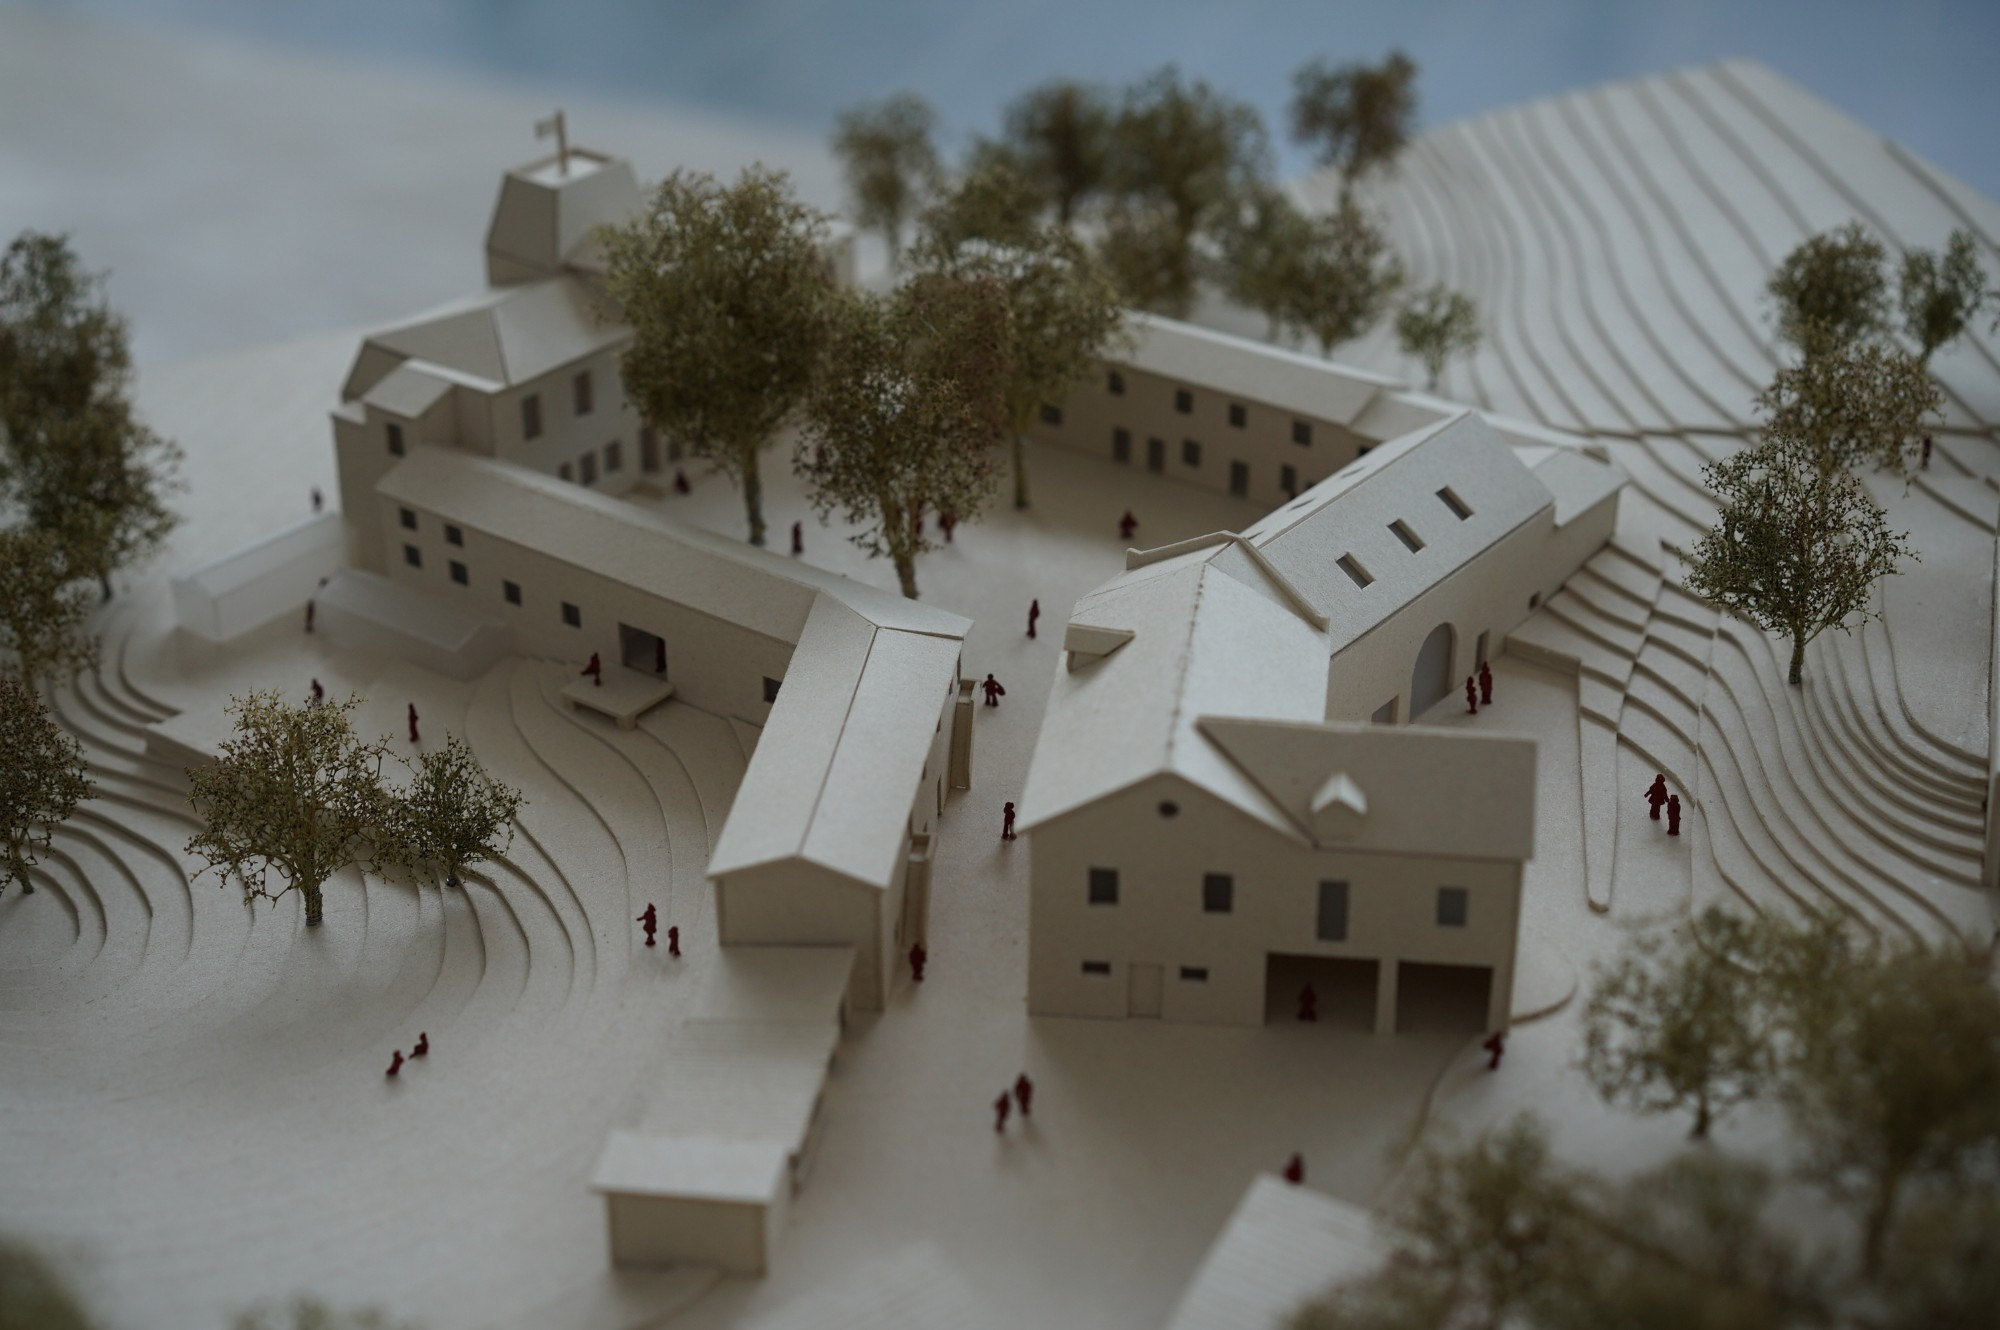
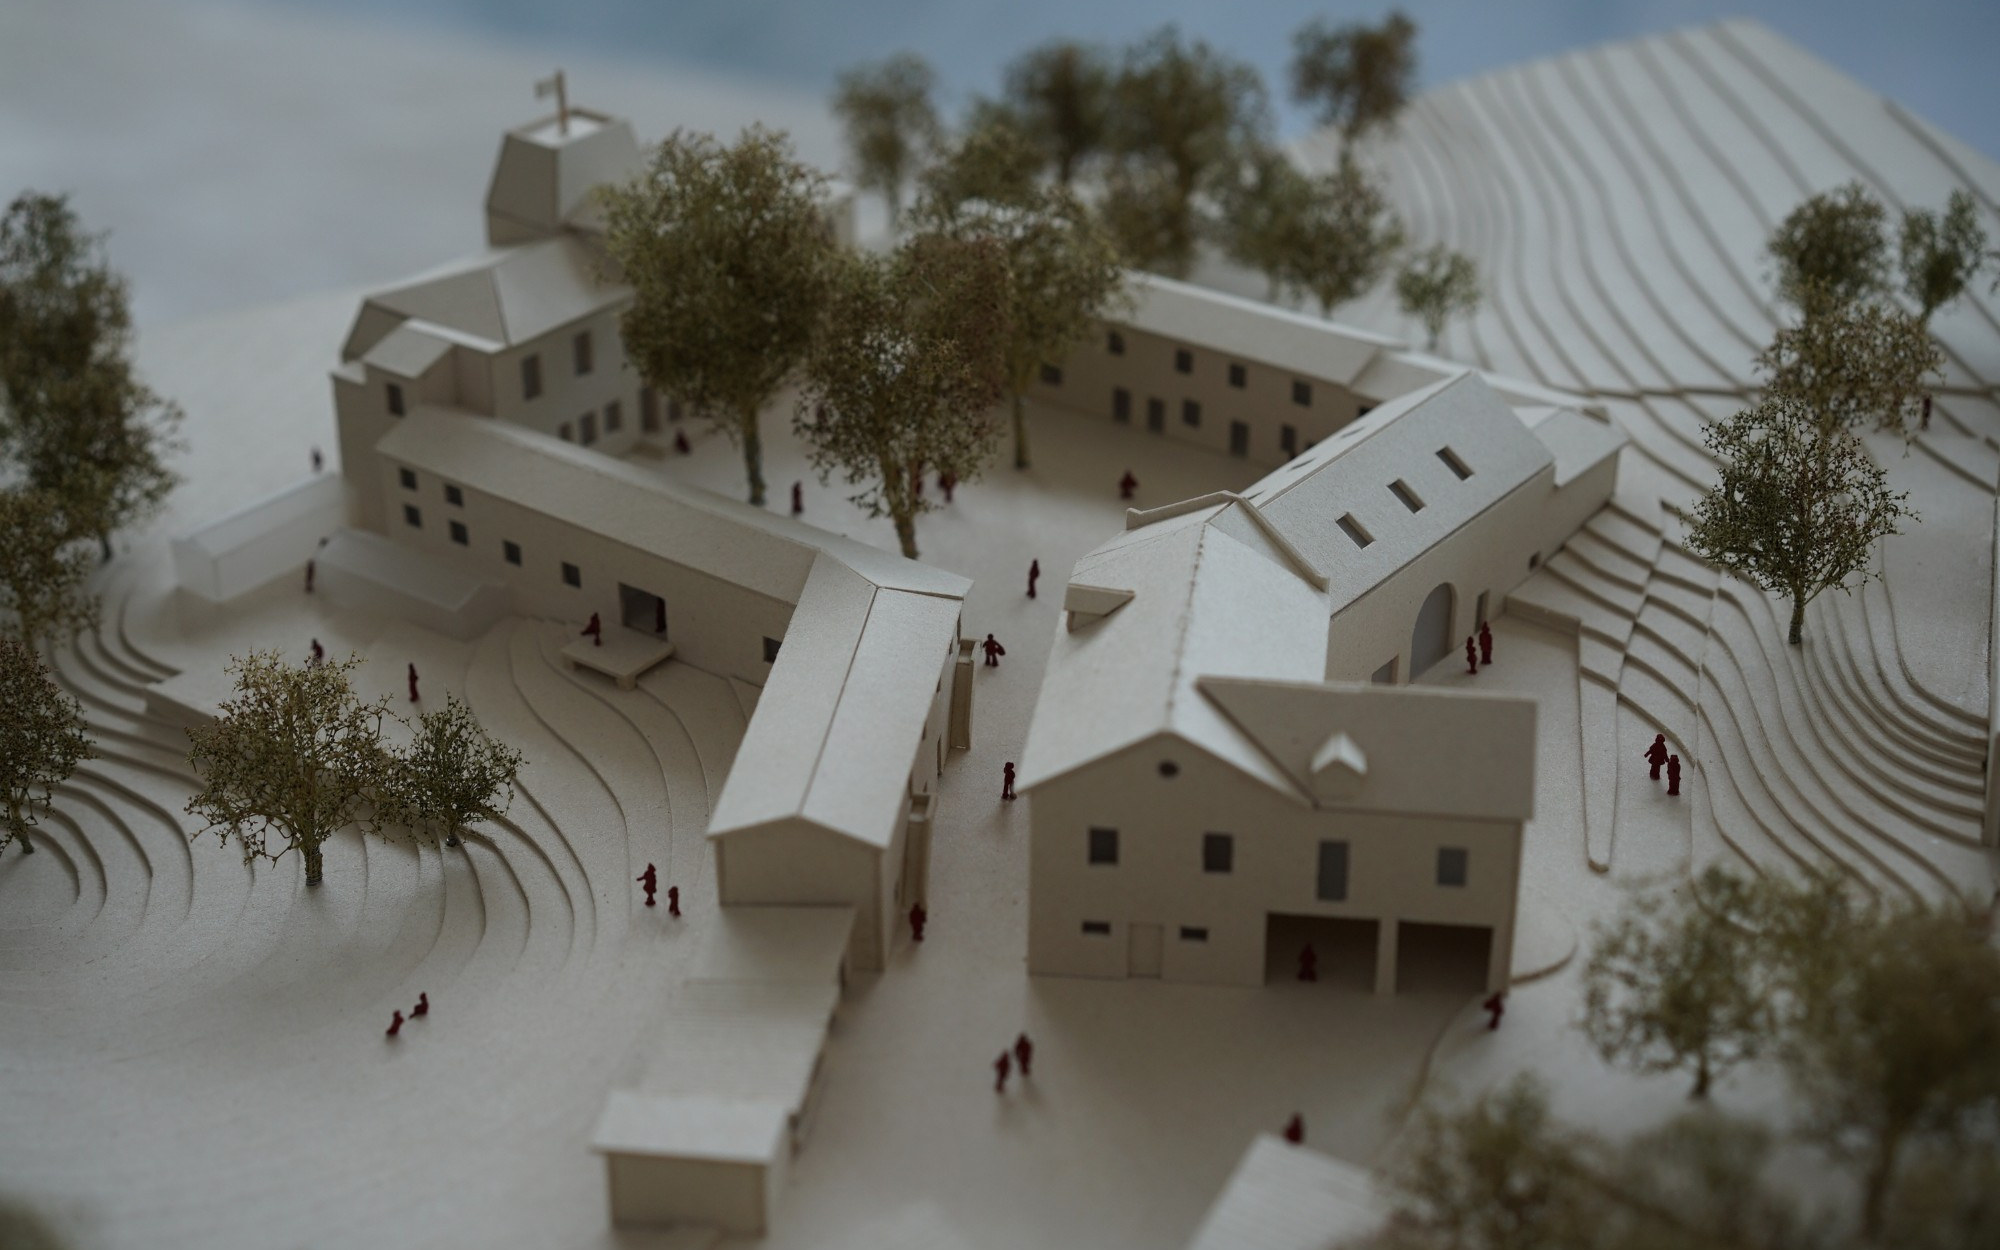
Bildstrecke Projekt 01: alle Bilder formatfuellend
Jede Folie ist jetzt im Format der Strecke zugeschnitten, keine weissen
Raender mehr. Schnitte auf die Zeichnung beschnitten, ohne den leeren
Gelaendeblock und den Lageplan-Schluessel. Modellfoto im Atelier naeher
und hoeher im Bild.

Claude-Session: https://claude.ai/code/session_011Hf6JxPaEEYH55yujGrNuc

diff --git a/projekt-1-gut-melb.html b/projekt-1-gut-melb.html
@@ -88,31 +88,31 @@
           </div>
           <div class="slider__slide" data-caption="Arbeitsmodell: das Ensemble in der Topografie des Melbtals.">
             <img src="assets/img/gut-melb/18-modell-ensemble.jpg" alt="Arbeitsmodell des Hofensembles aus weißem Karton, mit Bäumen und roten Figuren in der modellierten Topografie"
-                 width="2000" height="1330" loading="lazy">
+                 width="2000" height="1250" loading="lazy">
           </div>
           <div class="slider__slide" data-caption="Das Modell im Atelier — Grundlage für jede Abstimmung im Team.">
             <img src="assets/img/gut-melb/19-modell-atelier.jpg" alt="Das Arbeitsmodell auf einem Holztisch im Atelier, im Hintergrund eine Wand mit Skizzen"
-                 width="2000" height="1330" loading="lazy">
+                 width="1648" height="1030" loading="lazy">
           </div>
           <div class="slider__slide" data-caption="Perspektivischer Schnitt durch den Veranstaltungsraum.">
-            <img src="assets/img/gut-melb/20-schnitt-veranstaltung.jpg" class="fit-contain" alt="Perspektivischer Schnitt durch den Veranstaltungsraum: offener Dachstuhl, Wendeltreppe, Bühne mit Band, davor Tische im Freien"
-                 width="2600" height="1004" loading="lazy">
+            <img src="assets/img/gut-melb/20-schnitt-veranstaltung.jpg" alt="Perspektivischer Schnitt durch den Veranstaltungsraum: offener Dachstuhl, Wendeltreppe, Bühne mit Band, davor Tische im Freien"
+                 width="2200" height="1375" loading="lazy">
           </div>
           <div class="slider__slide" data-caption="Perspektivischer Schnitt durch das Herrenhaus.">
-            <img src="assets/img/gut-melb/21-schnitt-herrenhaus.jpg" class="fit-contain" alt="Perspektivischer Schnitt durch das Herrenhaus über vier Geschosse mit Wohnen, Arbeiten und Treppenhaus"
-                 width="2600" height="1218" loading="lazy">
+            <img src="assets/img/gut-melb/21-schnitt-herrenhaus.jpg" alt="Perspektivischer Schnitt durch das Herrenhaus über vier Geschosse mit Wohnen, Arbeiten und Treppenhaus"
+                 width="2200" height="1375" loading="lazy">
           </div>
           <div class="slider__slide" data-caption="Ankommen am Hof: der Haupteingang.">
-            <img src="assets/img/gut-melb/22-skizze-haupteingang.jpg" class="fit-contain" alt="Handzeichnung des Haupteingangs: Fachwerkgebäude mit Willkommensbanner, Radfahrende und eine Familie am Weg"
-                 width="2200" height="1650" loading="lazy">
+            <img src="assets/img/gut-melb/22-skizze-haupteingang.jpg" alt="Handzeichnung des Haupteingangs: Fachwerkgebäude mit Willkommensbanner, Radfahrende und eine Familie am Weg"
+                 width="2200" height="1375" loading="lazy">
           </div>
           <div class="slider__slide" data-caption="Belebter Innenhof: Café, Musik und Spiel.">
-            <img src="assets/img/gut-melb/23-skizze-innenhof.jpg" class="fit-contain" alt="Handzeichnung des Innenhofs: Café, Musizierende, spielende Kinder unter Bäumen mit Wimpelketten"
-                 width="2200" height="1650" loading="lazy">
+            <img src="assets/img/gut-melb/23-skizze-innenhof.jpg" alt="Handzeichnung des Innenhofs: Café, Musizierende, spielende Kinder unter Bäumen mit Wimpelketten"
+                 width="2200" height="1375" loading="lazy">
           </div>
           <div class="slider__slide" data-caption="Vorgarten und Innenhof am Wohnhaus.">
-            <img src="assets/img/gut-melb/24-skizze-wohnhaus-innenhof.jpg" class="fit-contain" alt="Handzeichnung von Vorgarten und Innenhof am Wohnhaus: Grill, Sitzgruppe, Hängesessel und spielende Kinder"
-                 width="2200" height="1650" loading="lazy">
+            <img src="assets/img/gut-melb/24-skizze-wohnhaus-innenhof.jpg" alt="Handzeichnung von Vorgarten und Innenhof am Wohnhaus: Grill, Sitzgruppe, Hängesessel und spielende Kinder"
+                 width="2200" height="1375" loading="lazy">
           </div>
         </div>
         <button class="slider__nav slider__nav--prev" type="button" aria-label="Vorheriges Bild"><span></span></button>
@@ -176,7 +176,7 @@
         <figure>
             <img src="assets/img/gut-melb/02-herrenhaus.jpg" class="ratio-4x5"
                  alt="Das Herrenhaus von Gut Melb hinter blühender Magnolie"
-                 width="575" height="751" loading="lazy">
+                 width="431" height="725" loading="lazy">
           <figcaption>Herrenhaus, 1848 · NRF 882 m²</figcaption>
         </figure>
         <figure>
